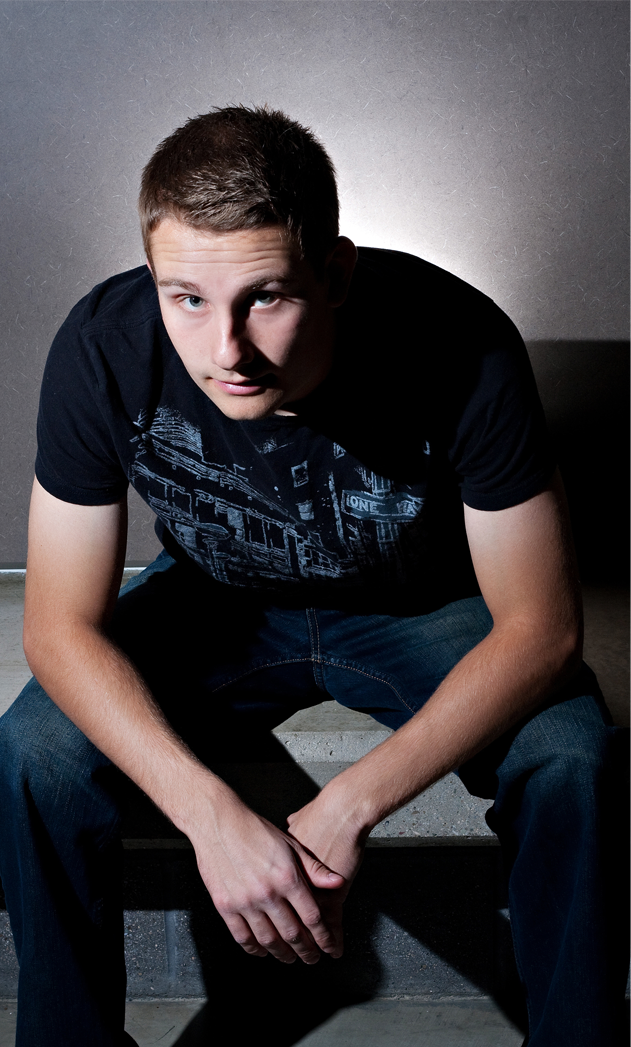
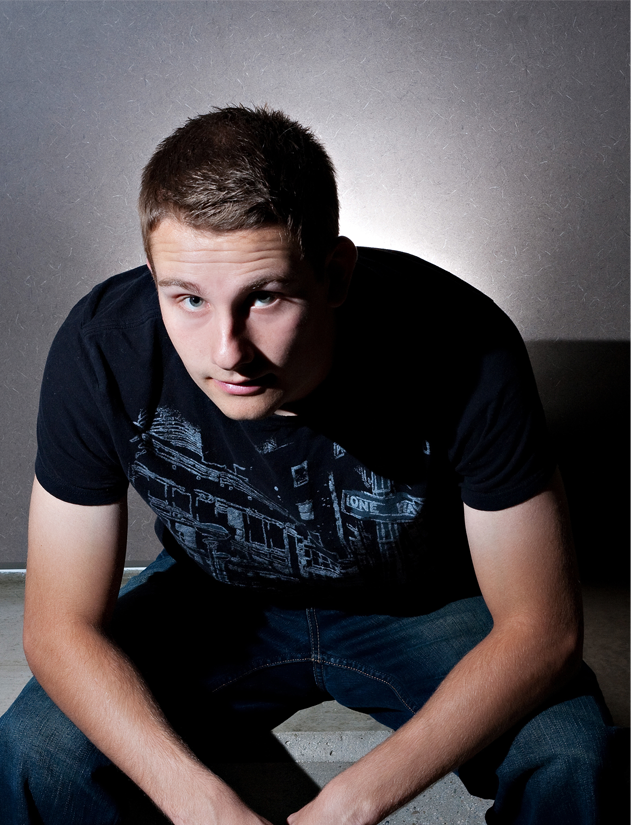
added content of about me section to the html code, replaced image 2 with the cropped one

diff --git a/index.html b/index.html
@@ -8,5 +8,63 @@
     <link rel="stylesheet" href="style/style.css">
   </head>
   <body>
+    <div class="about-me-container">
+
+      <div class="about-me-image"> 
+        <img src="assets/2.png" alt="me sitting">
+      </div>
+
+      <div class="about-me-description">
+        <h3> ABOUT ME </h3>
+        <p> Lorem ipsum dolor sit amet, consectetur adipiscing elit. Sed neque nisl, imperdiet non lacinia ut, sollicitudin sit amet
+        arcu. Pellentesque fringilla felis justo, vitae tincidunt erat volutpat ac. Suspendisse consectetur porttitor molestie.</p>
+        <p>Lorem ipsum dolor sit amet, consectetur adipiscing elit. Sed neque nisl, imperdiet non lacinia ut, sollicitudin sit amet
+        arcu. Pellentesque fringilla felis justo, vitae tincidunt erat volutpat ac.</p>
+      </div>
+
+      <div class="about-me-box">
+
+        <div class="about-me-box-elem">
+          <div class="about-me-box-elem-icon">
+            <img src="assets/3.png" alt="dragon icon">
+          </div>
+          <div class="about-me-box-elem-text">
+            <h3> WEB DESIGN </h3>
+            <p>  Lorem ipsum dolor sit amet, consectetur adipiscing elit. </p>
+          </div>
+        </div>
+
+        <div class="about-me-box-elem">
+          <div class="about-me-box-elem-icon">
+            <img src="assets/4.png" alt="pen icon">
+          </div>
+          <div class="about-me-box-elem-text">
+            <h3> GRAPHIC DESIGN </h3>
+            <p> Lorem ipsum dolor sit amet, consectetur adipiscing elit. </p>
+          </div>
+        </div>
+
+        <div class="about-me-box-elem">
+          <div class="about-me-box-elem-icon">
+            <img src="assets/5.png" alt="people icon">
+          </div>
+          <div class="about-me-box-elem-text">
+            <h3> ONLINE MARKETING </h3>
+            <p> Lorem ipsum dolor sit amet, consectetur adipiscing elit. </p>
+          </div>
+        </div>
+
+        <div class="about-me-box-elem">
+          <div class="about-me-box-elem-icon">
+            <img src="assets/6.png" alt="clip icon">
+          </div>
+          <div class="about-me-box-elem-text">
+            <h3> SEO </h3>
+            <p> Lorem ipsum dolor sit amet, consectetur adipiscing elit. </p>
+          </div>
+        </div>
+        
+      </div>
+    </div>
   </body>
 </html>
